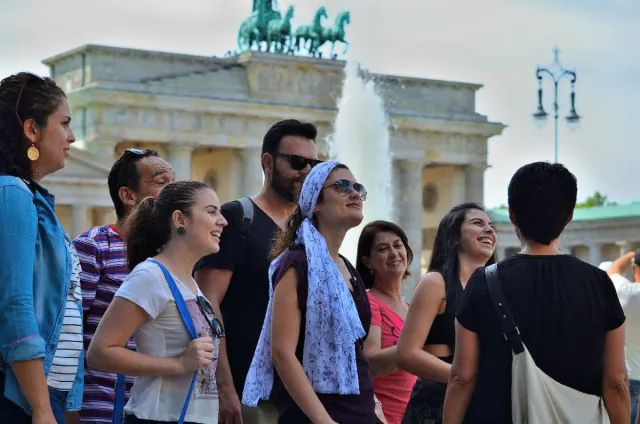
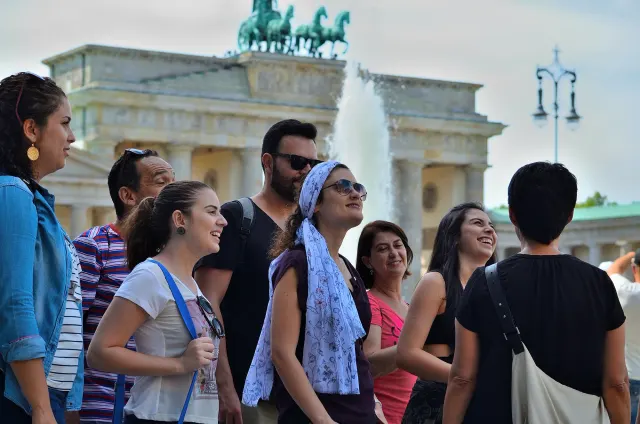
Schaerfere Fotos: drei Originale aus dem Archiv nachgezogen
Der Claude-Design-Export liefert einige Fotos kleiner, als sie angezeigt
werden. Aus dem Fotoarchiv wurden die hochaufgeloesten Originale gesucht
(Bildvergleich, nicht Dateiname) und mit gleichem Ausschnitt in fotos-gross
abgelegt:
  foto-t1-marta-quiosque  1800 -> 2600 px
  foto-cf-privado         1200 -> 2000 px
  foto-t7-mid             1200 -> 2000 px

Ausserdem: foto-sachsenhausen.jpg bleibt bewusst bei unserer 2600-px-Fassung
(Export nur 657 px) und ist als bekannte Abweichung eingetragen, damit die
neue Motiv-Warnung nicht jedes Mal anschlaegt.

Am Handy aendert sich die Datenmenge nicht - dort werden weiterhin die
kleinen Fassungen geladen.

Changed region(s): [[0.1562, 0.5519, 0.1875, 0.6132]]

diff --git a/website/catalogo.html b/website/catalogo.html
@@ -104,7 +104,7 @@
 
     <div class="cgrid">
       <div class="card" data-family="geo" data-dur="4h">
-        <div class="plate-b" style="margin-bottom:18px"><div style="position:relative;width:100%;aspect-ratio:4/3;overflow:hidden"><img srcset="assets/foto-t1-marta-quiosque-400.webp 400w, assets/foto-t1-marta-quiosque-640.webp 640w, assets/foto-t1-marta-quiosque-900.webp 900w, assets/foto-t1-marta-quiosque-1200.webp 1200w, assets/foto-t1-marta-quiosque-1600.webp 1600w, assets/foto-t1-marta-quiosque-1800.webp 1800w" sizes="(max-width: 900px) 85vw, 37vw" src="assets/foto-t1-marta-quiosque-1800.webp" alt="Reichstag" loading="lazy" decoding="async" style="display:block;width:100%;height:100%;max-width:none;object-fit:cover"></div></div>
+        <div class="plate-b" style="margin-bottom:18px"><div style="position:relative;width:100%;aspect-ratio:4/3;overflow:hidden"><img srcset="assets/foto-t1-marta-quiosque-400.webp 400w, assets/foto-t1-marta-quiosque-640.webp 640w, assets/foto-t1-marta-quiosque-900.webp 900w, assets/foto-t1-marta-quiosque-1200.webp 1200w, assets/foto-t1-marta-quiosque-1600.webp 1600w, assets/foto-t1-marta-quiosque-2000.webp 2000w, assets/foto-t1-marta-quiosque-2600.webp 2600w" sizes="(max-width: 900px) 85vw, 37vw" src="assets/foto-t1-marta-quiosque-2600.webp" alt="Reichstag" loading="lazy" decoding="async" style="display:block;width:100%;height:100%;max-width:none;object-fit:cover"></div></div>
         <div style="font-family:var(--font-heading);font-size:15px;letter-spacing:0.1em;color:#B45B3E;margin-bottom:8px;font-variant-numeric:tabular-nums">01</div>
         <h3 style="font-family:var(--font-heading);font-weight:500;font-size:26px;line-height:1.12;margin:0 0 7px;text-wrap:pretty">O Eixo Histórico do Século XX</h3>
         <div style="font-size:15px;line-height:1.5;margin-bottom:12px;color:color-mix(in srgb,#33302B 74%,transparent)">Do Reichstag ao Checkpoint Charlie</div>

diff --git a/website/passeios.html b/website/passeios.html
@@ -277,7 +277,7 @@
     <div>
       <div class="tgrid">
         <a class="tc" href="tour-1-eixo-historico.html">
-          <div class="plate-b"><div style="position:relative;width:100%;aspect-ratio:4/3;overflow:hidden"><img srcset="assets/foto-t1-marta-quiosque-400.webp 400w, assets/foto-t1-marta-quiosque-640.webp 640w, assets/foto-t1-marta-quiosque-900.webp 900w, assets/foto-t1-marta-quiosque-1200.webp 1200w, assets/foto-t1-marta-quiosque-1600.webp 1600w, assets/foto-t1-marta-quiosque-1800.webp 1800w" sizes="(max-width: 900px) 85vw, 39vw" src="assets/foto-t1-marta-quiosque-1800.webp" alt="O Eixo Histórico do Século XX" loading="lazy" decoding="async" style="display:block;width:100%;height:100%;max-width:none;object-fit:cover"></div></div>
+          <div class="plate-b"><div style="position:relative;width:100%;aspect-ratio:4/3;overflow:hidden"><img srcset="assets/foto-t1-marta-quiosque-400.webp 400w, assets/foto-t1-marta-quiosque-640.webp 640w, assets/foto-t1-marta-quiosque-900.webp 900w, assets/foto-t1-marta-quiosque-1200.webp 1200w, assets/foto-t1-marta-quiosque-1600.webp 1600w, assets/foto-t1-marta-quiosque-2000.webp 2000w, assets/foto-t1-marta-quiosque-2600.webp 2600w" sizes="(max-width: 900px) 85vw, 39vw" src="assets/foto-t1-marta-quiosque-2600.webp" alt="O Eixo Histórico do Século XX" loading="lazy" decoding="async" style="display:block;width:100%;height:100%;max-width:none;object-fit:cover"></div></div>
           <div class="tc-body" style="padding-top:20px">
             <h3 class="tcard-t" style="font-family:var(--font-heading);font-weight:500;font-size:clamp(25px,2.4vw,30px);line-height:1.1;margin:0 0 9px;text-wrap:pretty">O Eixo Histórico do Século XX</h3>
             <div style="font-size:15px;line-height:1.5;margin-bottom:13px;color:color-mix(in srgb,#33302B 74%,transparent)">Do Reichstag ao Checkpoint Charlie</div>

diff --git a/website/como-funciona.html b/website/como-funciona.html
@@ -150,7 +150,7 @@
   </section>
 
   <section class="wrap" style="padding-top:30px;padding-bottom:0">
-    <div class="plate-b" style="max-width:900px"><div style="position:relative;width:100%;aspect-ratio:3/2;overflow:hidden"><img srcset="assets/foto-cf-privado-400.webp 400w, assets/foto-cf-privado-640.webp 640w, assets/foto-cf-privado-900.webp 900w, assets/foto-cf-privado-1200.webp 1200w" sizes="(max-width: 900px) 85vw, 63vw" src="assets/foto-cf-privado-1200.webp" alt="Marta conversa com o grupo à sombra de um salgueiro" loading="lazy" decoding="async" style="display:block;width:100%;height:100%;max-width:none;object-fit:cover"></div></div>
+    <div class="plate-b" style="max-width:900px"><div style="position:relative;width:100%;aspect-ratio:3/2;overflow:hidden"><img srcset="assets/foto-cf-privado-400.webp 400w, assets/foto-cf-privado-640.webp 640w, assets/foto-cf-privado-900.webp 900w, assets/foto-cf-privado-1200.webp 1200w, assets/foto-cf-privado-1600.webp 1600w, assets/foto-cf-privado-1800.webp 1800w" sizes="(max-width: 900px) 85vw, 63vw" src="assets/foto-cf-privado-1800.webp" alt="Marta conversa com o grupo à sombra de um salgueiro" loading="lazy" decoding="async" style="display:block;width:100%;height:100%;max-width:none;object-fit:cover"></div></div>
   </section>
 
   <section style="background:#F4EDDC;border-top:1px solid #E8DEC4;border-bottom:1px solid #E8DEC4;margin-top:60px">

diff --git a/website/tour-1-eixo-historico.html b/website/tour-1-eixo-historico.html
@@ -145,7 +145,7 @@
   </header>
 
   <div style="position:relative;width:100%;height:clamp(300px,38vw,520px);overflow:hidden;background:#33302B">
-    <img srcset="assets/foto-t1-marta-quiosque-400.webp 400w, assets/foto-t1-marta-quiosque-640.webp 640w, assets/foto-t1-marta-quiosque-900.webp 900w, assets/foto-t1-marta-quiosque-1200.webp 1200w, assets/foto-t1-marta-quiosque-1600.webp 1600w, assets/foto-t1-marta-quiosque-1800.webp 1800w" sizes="(max-width: 900px) 100vw, 100vw" src="assets/foto-t1-marta-quiosque-1800.webp" alt="Foto de abertura do tour" loading="lazy" decoding="async" style="display:block;width:100%;height:100%;max-width:none;object-fit:cover">
+    <img srcset="assets/foto-t1-marta-quiosque-400.webp 400w, assets/foto-t1-marta-quiosque-640.webp 640w, assets/foto-t1-marta-quiosque-900.webp 900w, assets/foto-t1-marta-quiosque-1200.webp 1200w, assets/foto-t1-marta-quiosque-1600.webp 1600w, assets/foto-t1-marta-quiosque-2000.webp 2000w, assets/foto-t1-marta-quiosque-2600.webp 2600w" sizes="(max-width: 900px) 100vw, 100vw" src="assets/foto-t1-marta-quiosque-2600.webp" alt="Foto de abertura do tour" loading="lazy" decoding="async" style="display:block;width:100%;height:100%;max-width:none;object-fit:cover">
   </div>
 
   <section class="wrap" style="padding-top:56px;padding-bottom:10px">

diff --git a/website/tour-7-sachsenhausen.html b/website/tour-7-sachsenhausen.html
@@ -166,7 +166,7 @@
   </section>
 
   <section class="wrap" style="padding-top:18px;padding-bottom:4px">
-    <div class="plate-b" style="max-width:820px"><div style="position:relative;width:100%;aspect-ratio:3/2;overflow:hidden"><img srcset="assets/foto-t7-mid-400.webp 400w, assets/foto-t7-mid-640.webp 640w, assets/foto-t7-mid-900.webp 900w, assets/foto-t7-mid-1200.webp 1200w" sizes="(max-width: 900px) 85vw, 57vw" src="assets/foto-t7-mid-1200.webp" alt="Caminho junto ao muro do campo de Sachsenhausen" loading="lazy" decoding="async" style="display:block;width:100%;height:100%;max-width:none;object-fit:cover"></div></div>
+    <div class="plate-b" style="max-width:820px"><div style="position:relative;width:100%;aspect-ratio:3/2;overflow:hidden"><img srcset="assets/foto-t7-mid-400.webp 400w, assets/foto-t7-mid-640.webp 640w, assets/foto-t7-mid-900.webp 900w, assets/foto-t7-mid-1200.webp 1200w, assets/foto-t7-mid-1600.webp 1600w" sizes="(max-width: 900px) 85vw, 57vw" src="assets/foto-t7-mid-1600.webp" alt="Caminho junto ao muro do campo de Sachsenhausen" loading="lazy" decoding="async" style="display:block;width:100%;height:100%;max-width:none;object-fit:cover"></div></div>
   </section>
 
   <section class="wrap" style="padding-top:46px;padding-bottom:10px">

diff --git a/fotos-gross/README.md b/fotos-gross/README.md
@@ -13,3 +13,21 @@ löschen, sonst setzt sich das alte Motiv wieder durch.
 
 Größe: längste Kante max. 2600 px, JPEG. Quelle: Fotoarchiv
 „Berlinando Fotos Webseite" (Stand 17.09.2026).
+
+## Stand 21.09.2026 — neu dazugekommen
+
+Aus dem Fotoarchiv (`~/Desktop/Berlinando Fotos Webseite`) in hoher Auflösung
+nachgezogen, weil der Claude-Design-Export sie zu klein liefert:
+
+| Datei | Export | hier | Quelle im Archiv |
+| --- | --- | --- | --- |
+| `foto-t1-marta-quiosque.jpg` | 1800 px | 2600 px | `01 Marta & Gäste/marta-erklaerend-4887px.jpg` |
+| `foto-cf-privado.webp` | 1200 px | 2000 px | `01 Marta & Gäste/Portão de Brandenburgo passeio-4928px.jpg` |
+| `foto-t7-mid.webp` | 1200 px | 2000 px | `01 Marta & Gäste/gaeste-mit-kameras-ACHTUNG-sachsenhausen-4928px.jpg` |
+
+Gleicher Bildausschnitt wie im Export (automatisch abgeglichen), nur schärfer.
+
+`foto-sachsenhausen.jpg` weicht bewusst ab: unsere Fassung ist 2600 px und
+farblich zurückhaltender, der Export liefert nur 657 px. Deshalb steht die
+Datei in `MOTIV_BEKANNT` in `werkzeuge/design-uebernehmen.mjs` und löst keine
+Warnung mehr aus.
